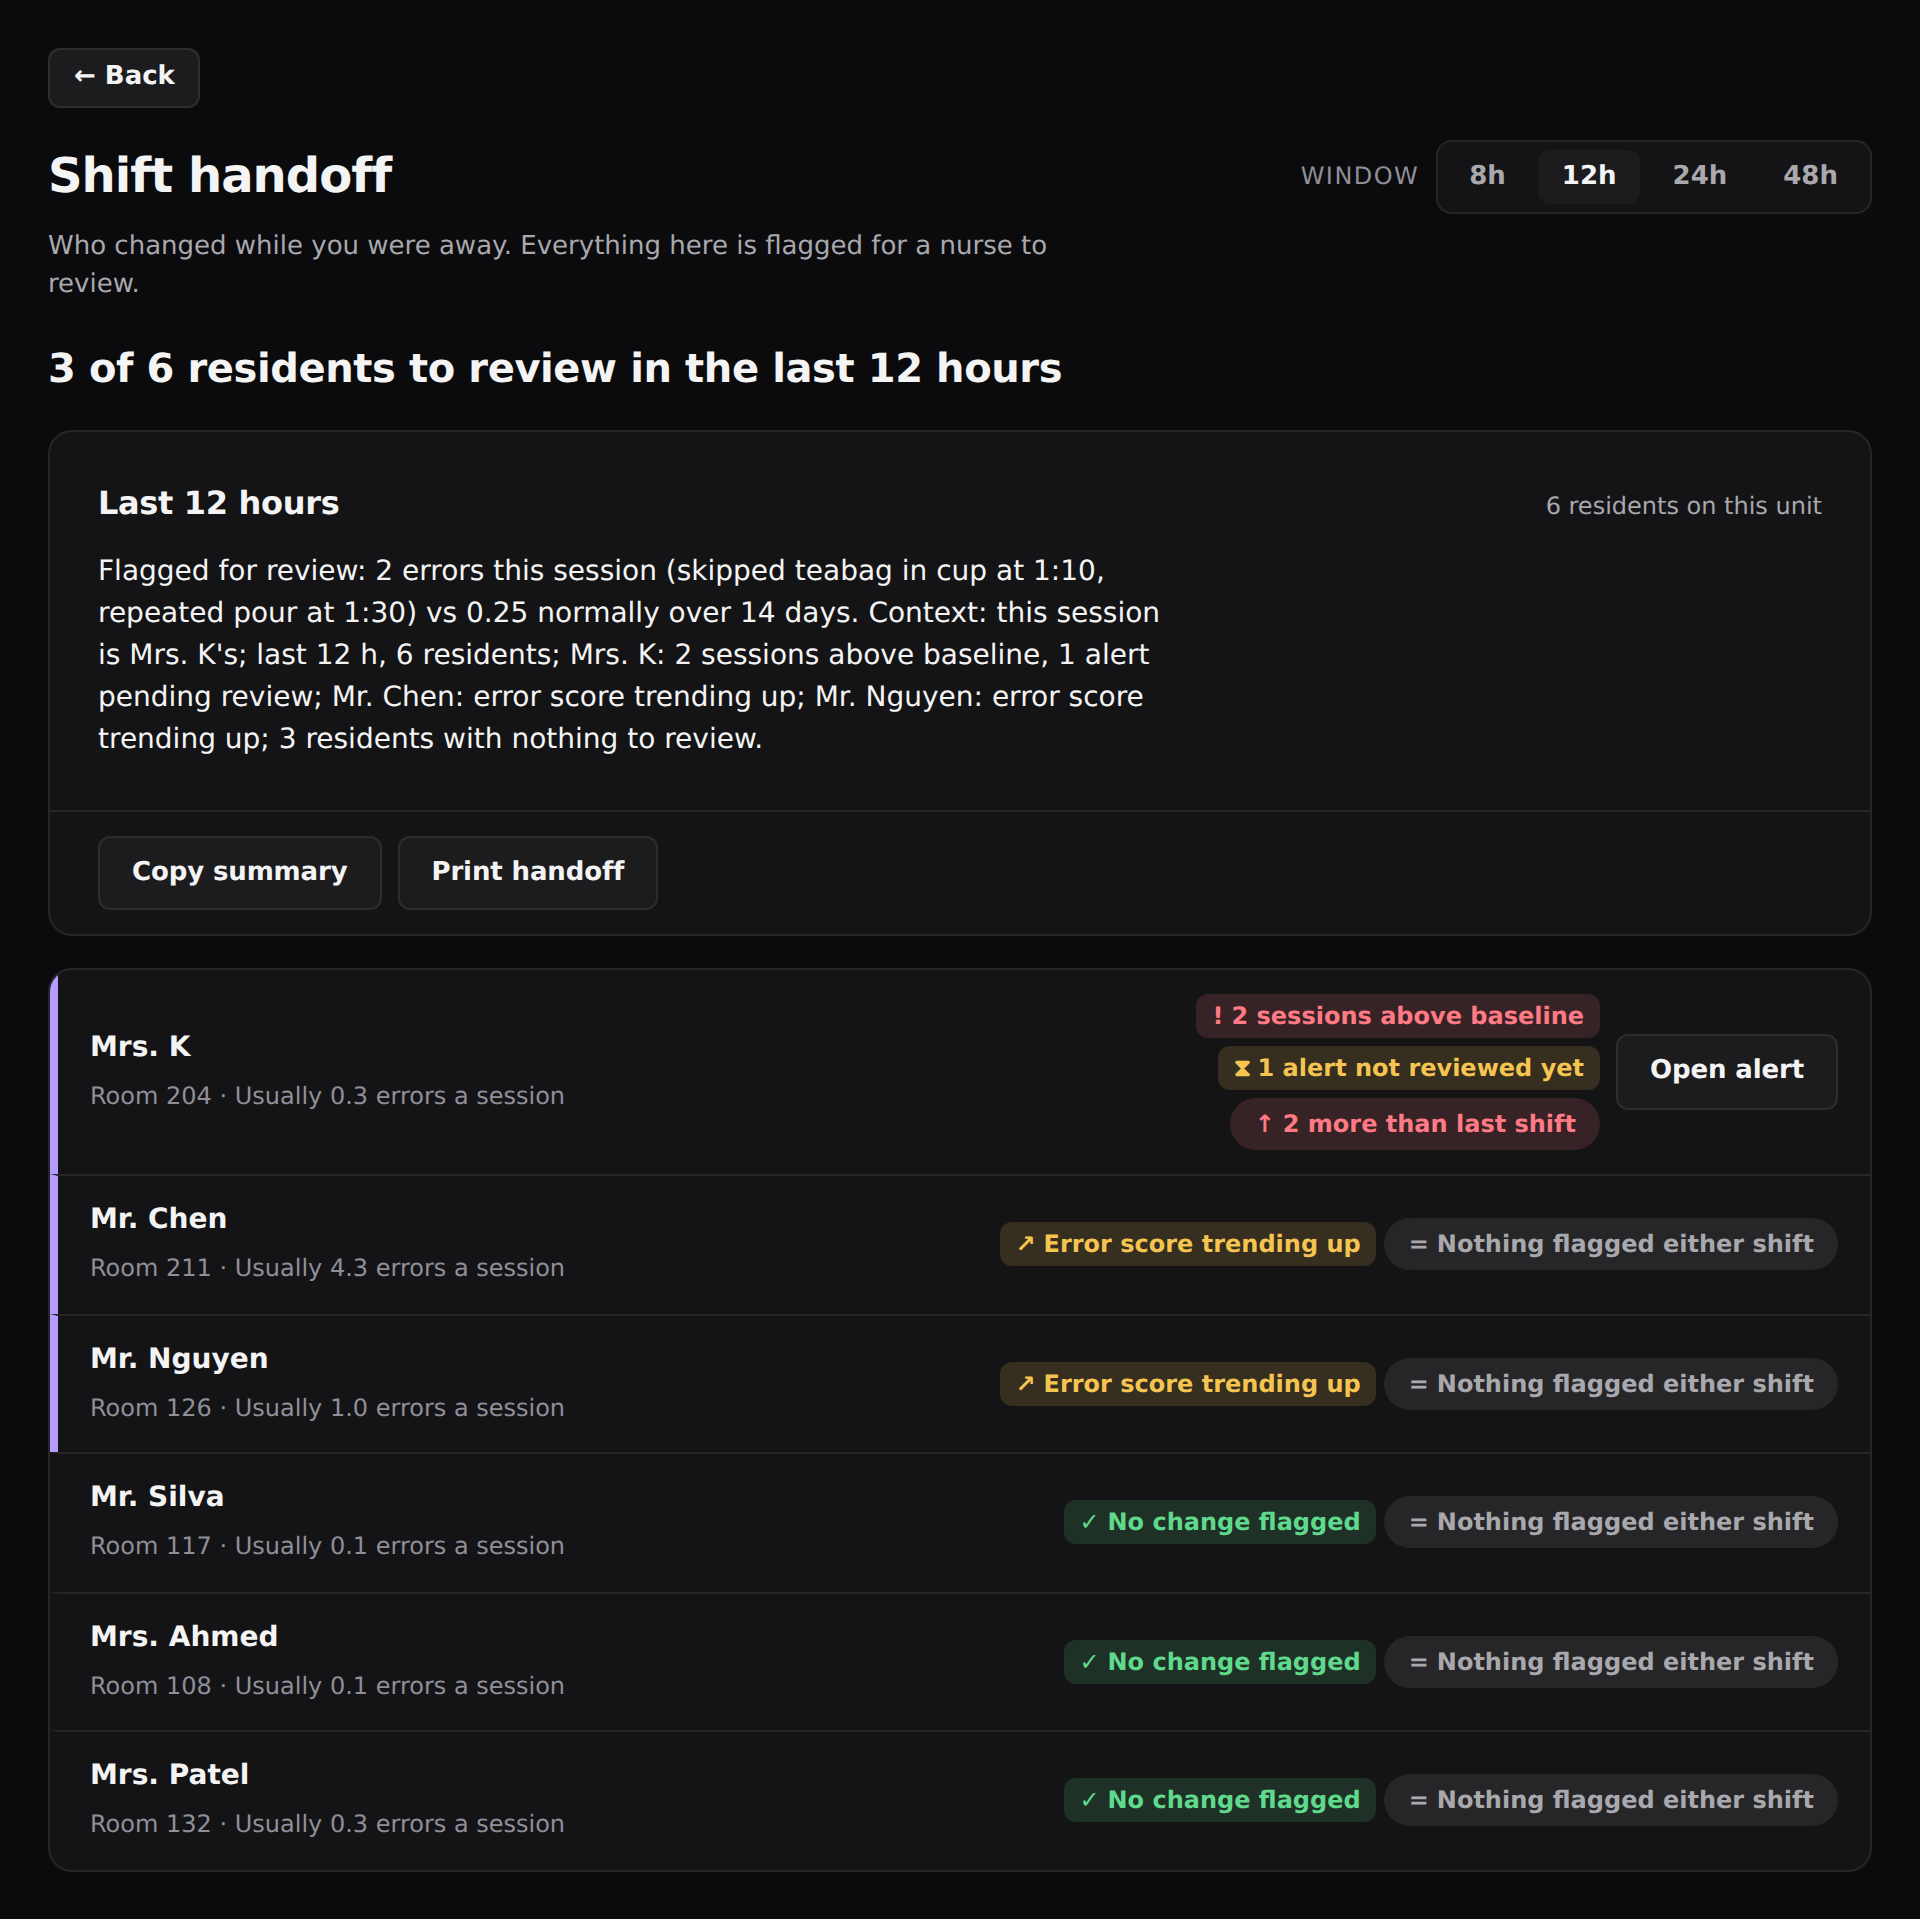
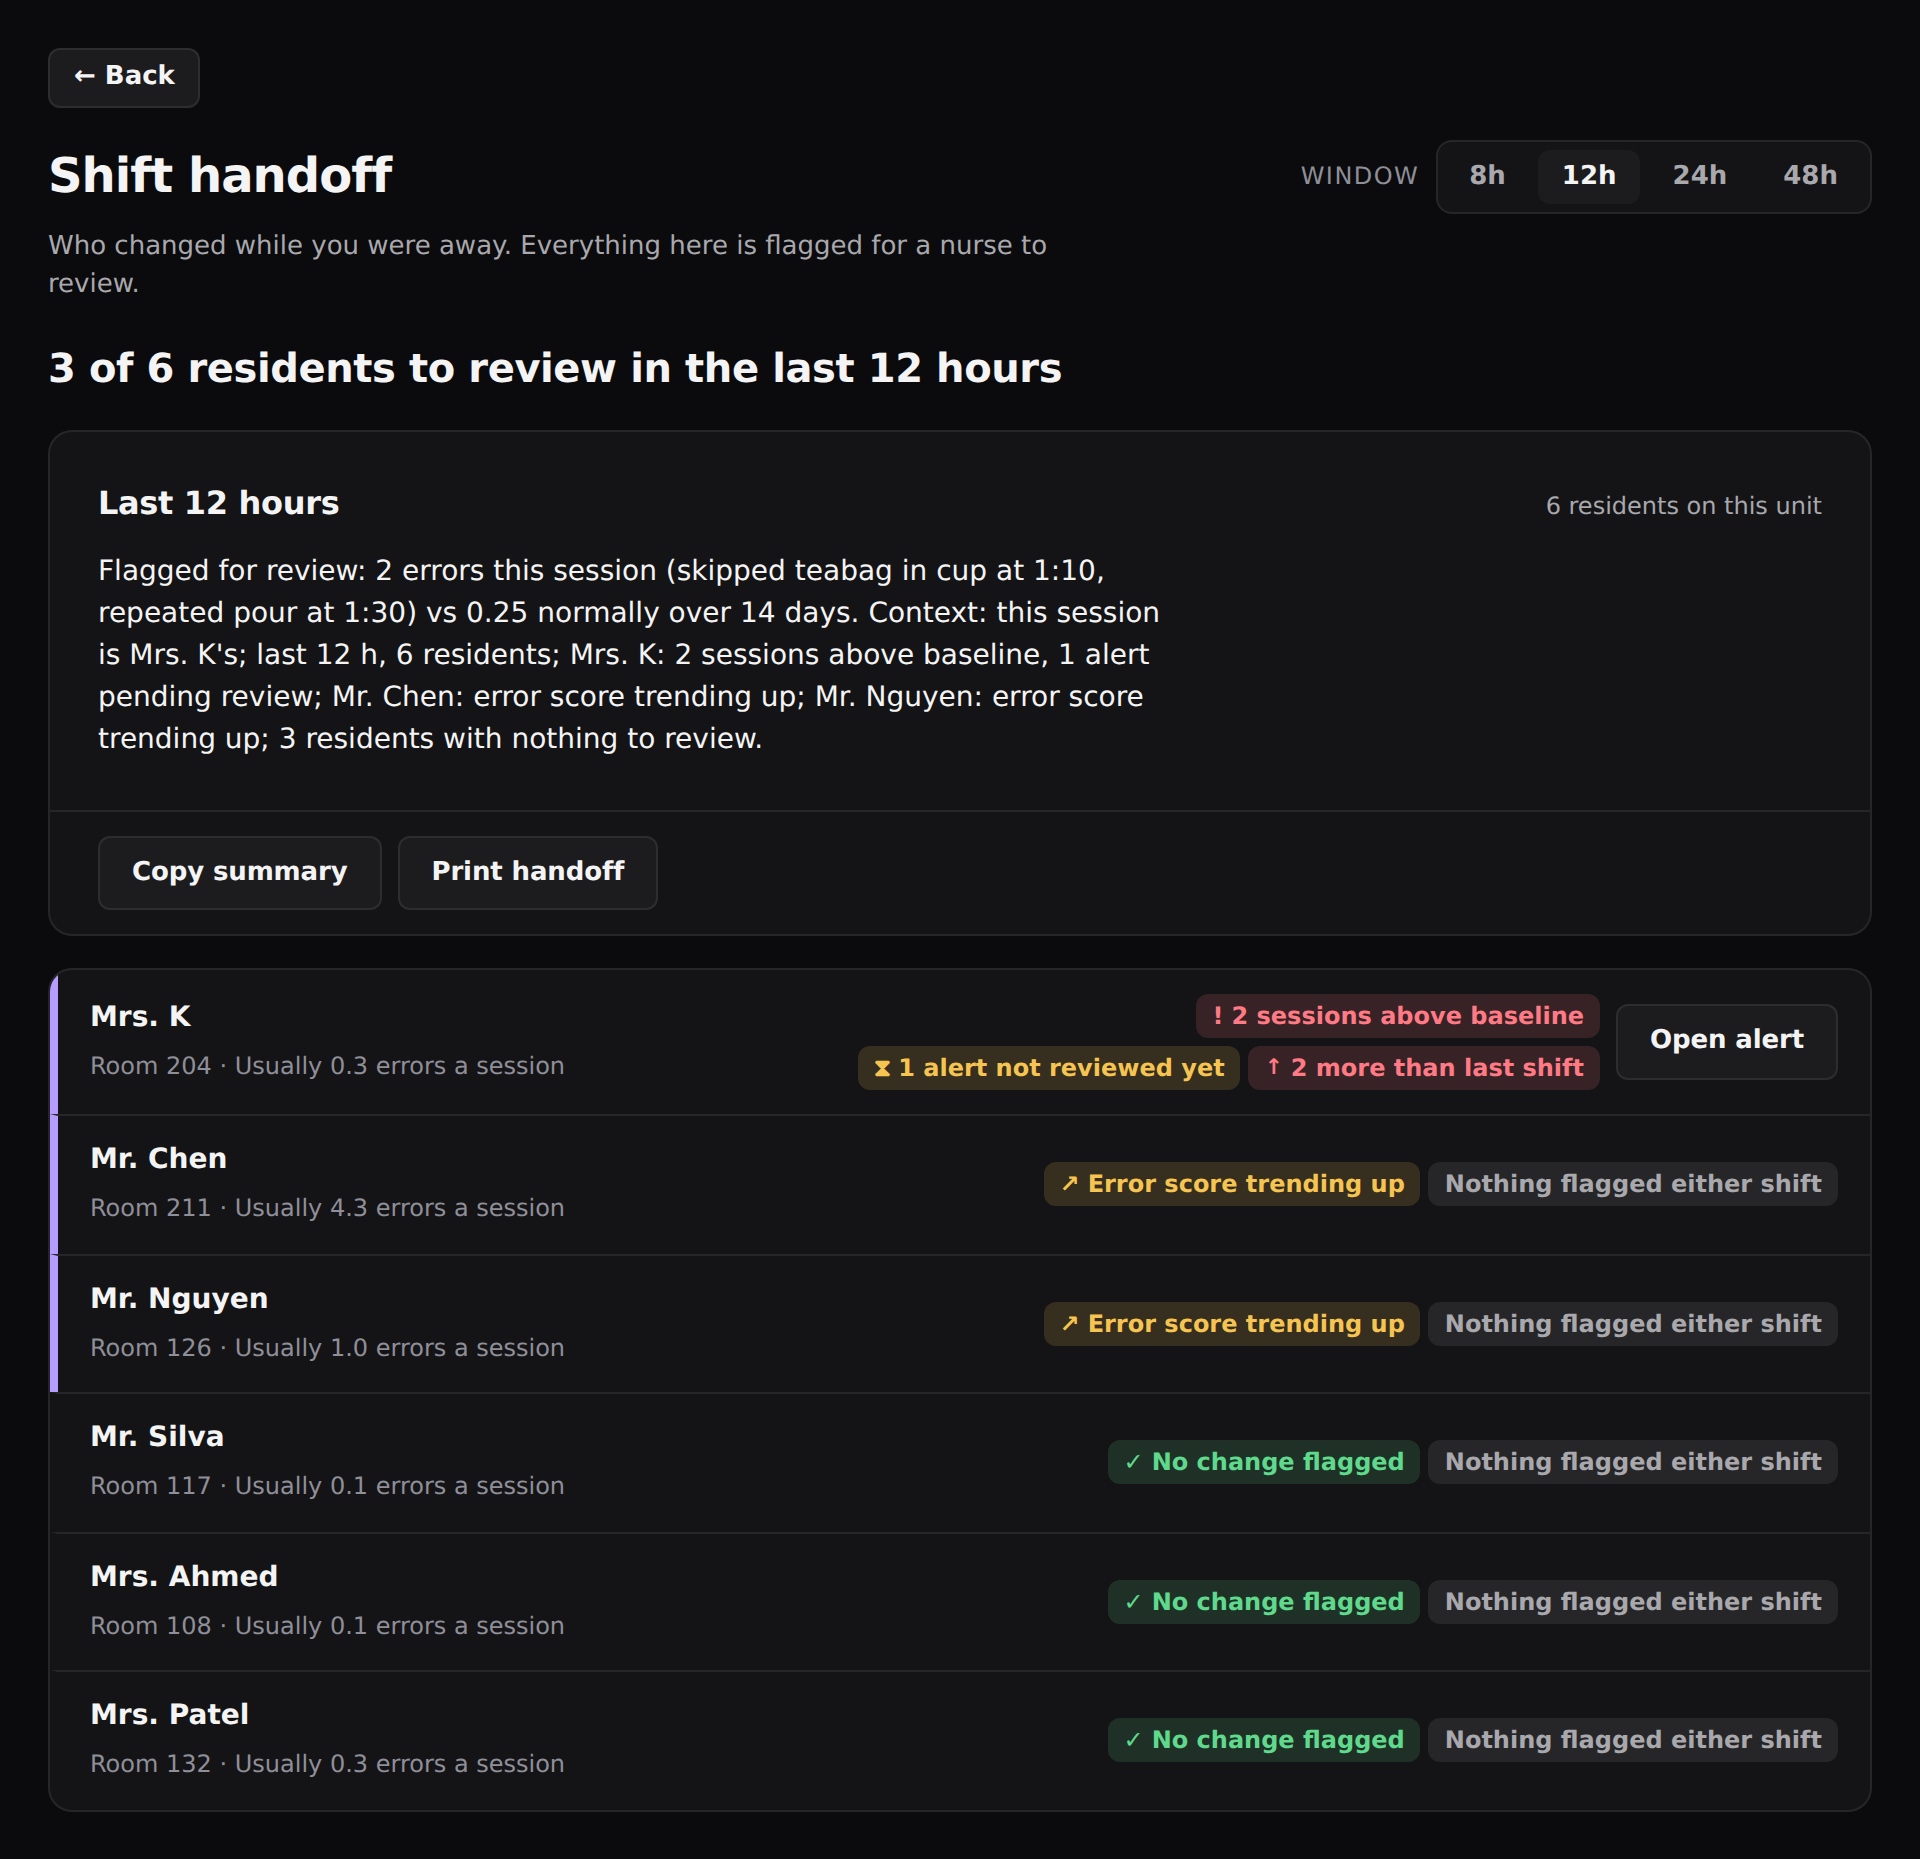
T406: outline the delta pill on paper, refresh the after screenshots
T428 moved HandoffDelta onto Pill and dropped its stylesheet, so the delta lost
the print outline its neighbours keep; give it the same one. Screenshots retaken
against the merged screens.

diff --git a/web/src/handoff/Handoff.test.tsx b/web/src/handoff/Handoff.test.tsx
@@ -681,5 +681,7 @@ describe('handoff.css print layout', () => {
   it('keeps the review rail and the chips readable once the colour is gone', () => {
     expect(printBlock).toMatch(/\.handoff__row--review \{[^}]*border-left-width/)
     expect(printBlock).toMatch(/\.handoff__chip \{[^}]*border:/)
+    // The delta pill sits among those chips, so it is outlined with them.
+    expect(printBlock).toMatch(/\.handoff-delta \{[^}]*border:/)
   })
 })

diff --git a/web/src/handoff/handoff.css b/web/src/handoff/handoff.css
@@ -285,4 +285,10 @@
   .handoff__chip {
     border: 1px solid;
   }
+
+  /* The delta rides in the same row of chips (T428 put it on `Pill`), so it takes
+     the same outline rather than printing as a bare phrase between two boxes. */
+  .handoff-delta {
+    border: 1px solid;
+  }
 }
